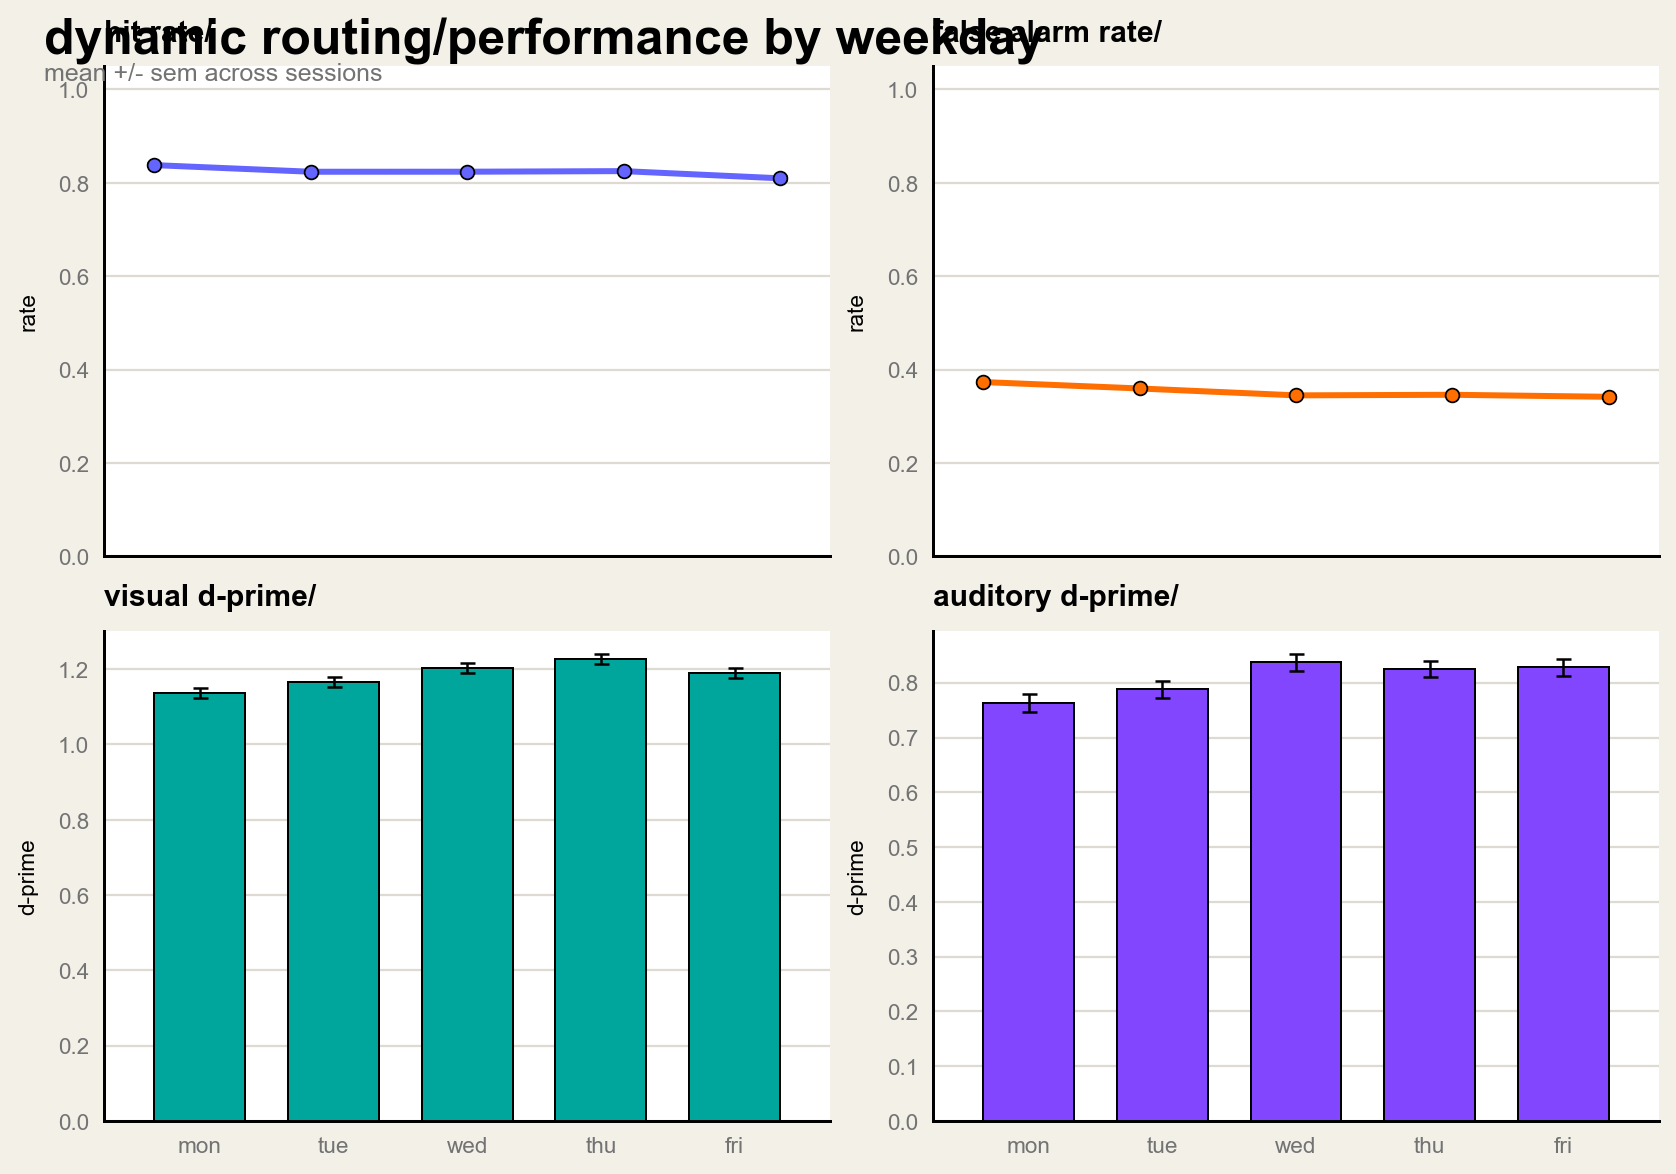
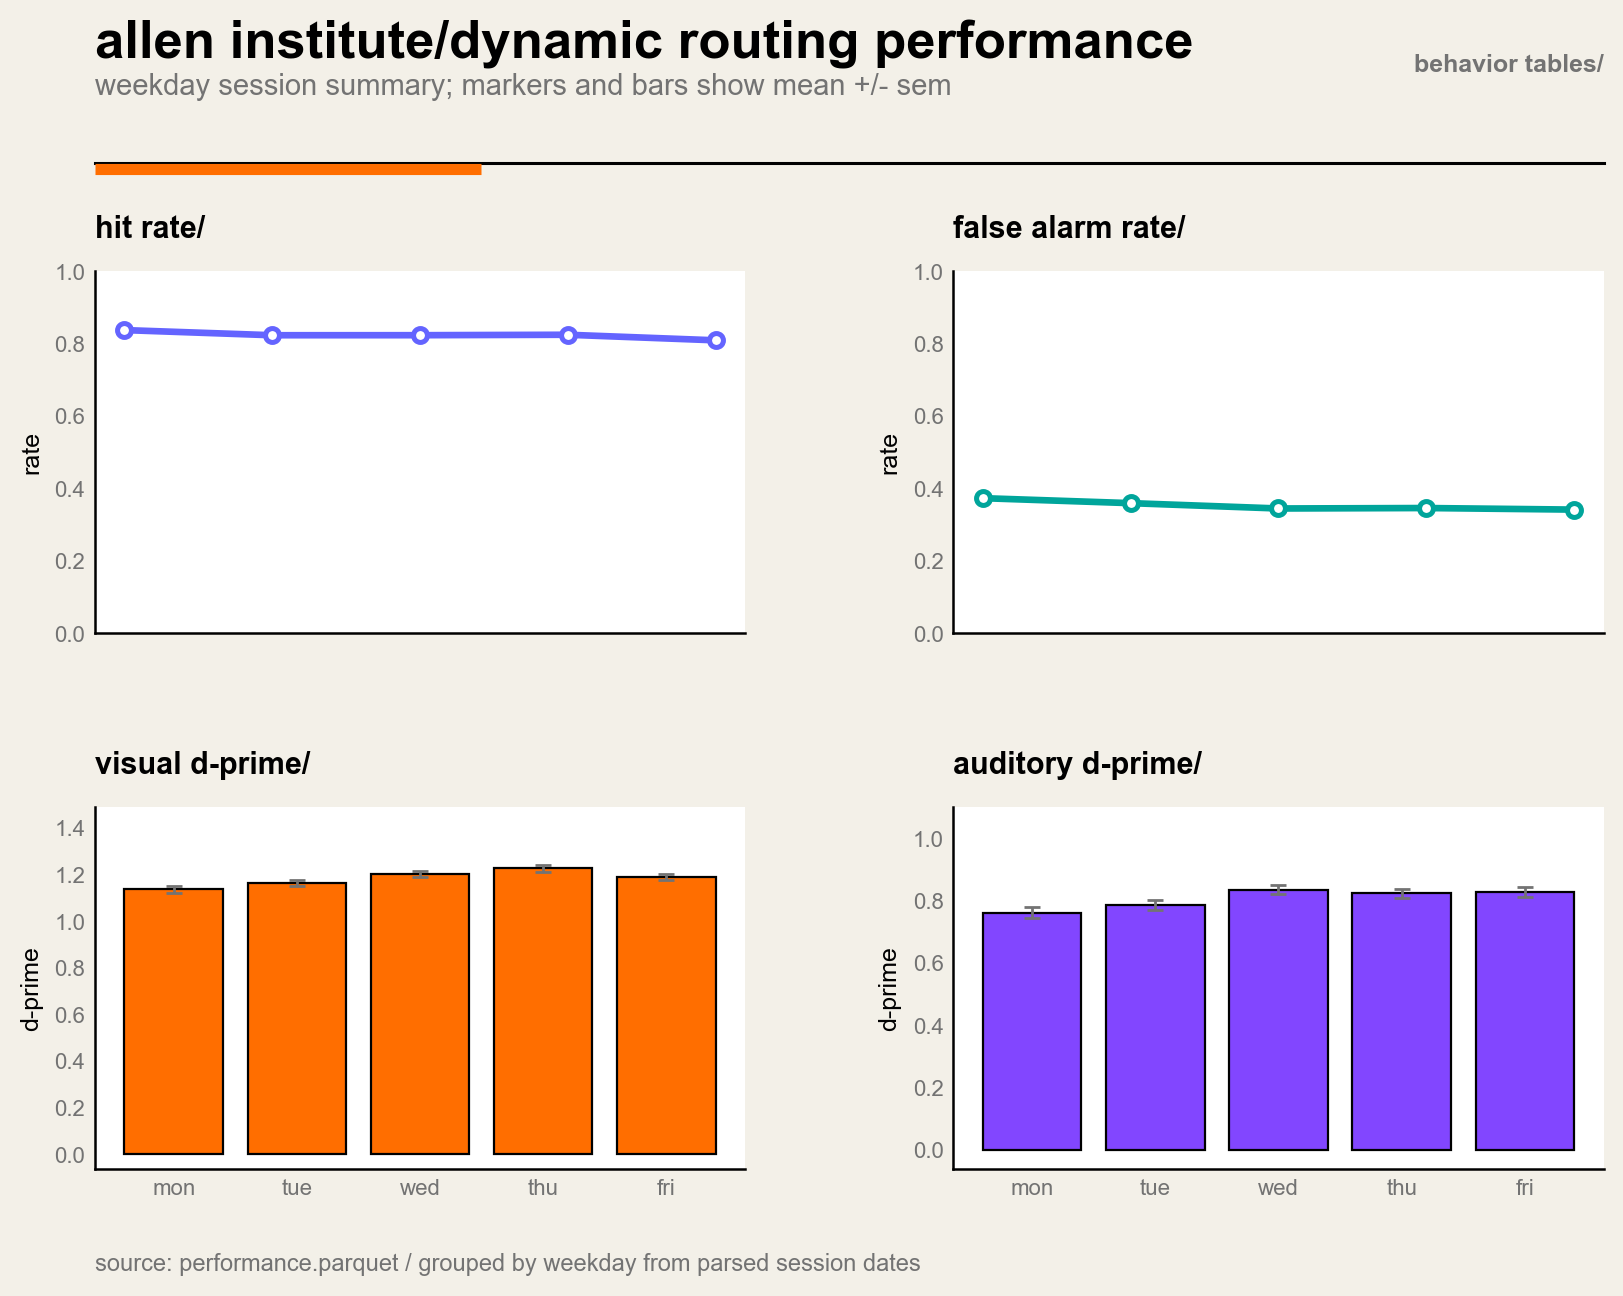
Record Allen brand benchmark improvement

diff --git a/.autoresearch/mod_plot.py b/.autoresearch/mod_plot.py
@@ -9,10 +9,10 @@ from __future__ import annotations
 
 from pathlib import Path
 
+import matplotlib.font_manager as font_manager
 import matplotlib.pyplot as plt
 import polars as pl
 from cycler import cycler
-from matplotlib import font_manager
 
 
 SOURCE = Path(
@@ -20,14 +20,6 @@ SOURCE = Path(
 )
 OUT_DIR = Path(__file__).resolve().parent
 FIGURE_PATH = OUT_DIR / "plot.png"
-
-PLOTS = (
-    ("hit_rate", "line"),
-    ("false_alarm_rate", "line"),
-    ("vis_dprime", "bar"),
-    ("aud_dprime", "bar"),
-)
-METRICS = tuple(metric for metric, _ in PLOTS)
 
 ALLEN = {
     "black": "#000000",
@@ -47,23 +39,28 @@ ALLEN = {
     "yellow": "#FFEB23",
 }
 ALLEN_SERIES = [
-    ALLEN["blue"],
-    ALLEN["orange"],
-    ALLEN["teal"],
-    ALLEN["violet"],
-    ALLEN["green"],
-    ALLEN["rose"],
-    ALLEN["maroon"],
-    ALLEN["ochre"],
-    ALLEN["yellow"],
+    ALLEN[color]
+    for color in (
+        "blue",
+        "orange",
+        "teal",
+        "violet",
+        "green",
+        "rose",
+        "maroon",
+        "ochre",
+        "yellow",
+    )
 ]
-PLOT_COLORS = {
-    "hit_rate": ALLEN["blue"],
-    "false_alarm_rate": ALLEN["orange"],
-    "vis_dprime": ALLEN["teal"],
-    "aud_dprime": ALLEN["violet"],
-}
-PLOT_TITLES = {
+
+PLOTS = (
+    ("hit_rate", "line"),
+    ("false_alarm_rate", "line"),
+    ("vis_dprime", "bar"),
+    ("aud_dprime", "bar"),
+)
+METRICS = tuple(metric for metric, _ in PLOTS)
+PANEL_LABELS = {
     "hit_rate": "hit rate/",
     "false_alarm_rate": "false alarm rate/",
     "vis_dprime": "visual d-prime/",
@@ -75,36 +72,46 @@ Y_LABELS = {
     "vis_dprime": "d-prime",
     "aud_dprime": "d-prime",
 }
-FONT_CANDIDATES = (
-    "Allen Institute Text",
-    "Allen Institute",
-    "Helvetica Neue",
-    "Arial",
-    "DejaVu Sans",
-)
+PLOT_COLORS = {
+    "hit_rate": ALLEN["blue"],
+    "false_alarm_rate": ALLEN["teal"],
+    "vis_dprime": ALLEN["orange"],
+    "aud_dprime": ALLEN["violet"],
+}
 
 
-def resolve_font_family() -> list[str]:
-    available = {font.name for font in font_manager.fontManager.ttflist}
-    for font_name in FONT_CANDIDATES:
-        if font_name in available:
-            return [font_name, "sans-serif"]
-    return ["sans-serif"]
+def preferred_font() -> str:
+    installed = {font.name for font in font_manager.fontManager.ttflist}
+    for family in (
+        "Allen Institute Text",
+        "Allen Institute",
+        "Helvetica Neue",
+        "Arial",
+        "DejaVu Sans",
+    ):
+        if family in installed:
+            return family
+    return "sans-serif"
 
 
 plt.rcParams.update(
     {
         "figure.facecolor": ALLEN["page1"],
+        "savefig.facecolor": ALLEN["page1"],
         "axes.facecolor": ALLEN["white"],
         "axes.edgecolor": ALLEN["black"],
         "axes.labelcolor": ALLEN["black"],
         "axes.prop_cycle": cycler(color=ALLEN_SERIES),
-        "axes.titlecolor": ALLEN["black"],
-        "font.family": resolve_font_family(),
+        "axes.spines.top": False,
+        "axes.spines.right": False,
+        "axes.titleweight": "bold",
+        "axes.grid": True,
         "grid.color": ALLEN["page2"],
-        "text.color": ALLEN["black"],
+        "grid.linewidth": 0.9,
         "xtick.color": ALLEN["gray2"],
         "ytick.color": ALLEN["gray2"],
+        "text.color": ALLEN["black"],
+        "font.family": preferred_font(),
     }
 )
 
@@ -150,9 +157,9 @@ def summarize_by_weekday(sessions: pl.DataFrame) -> pl.DataFrame:
         )
         .with_columns(
             *[
-                (pl.col(f"{metric}_sd") / pl.col(f"{metric}_n").sqrt()).alias(
-                    f"{metric}_sem"
-                )
+                (pl.col(f"{metric}_sd") / pl.col(f"{metric}_n").sqrt())
+                .fill_null(0)
+                .alias(f"{metric}_sem")
                 for metric in METRICS
             ]
         )
@@ -161,93 +168,163 @@ def summarize_by_weekday(sessions: pl.DataFrame) -> pl.DataFrame:
     return summary
 
 
-def format_axis(ax: plt.Axes, metric: str, labels: list[str], show_weekdays: bool) -> None:
-    ax.set_title(PLOT_TITLES[metric], loc="left", fontsize=12, fontweight="bold", pad=10)
-    ax.set_ylabel(Y_LABELS[metric], fontsize=9, labelpad=8)
-    ax.set_xticks(range(len(labels)))
-    ax.set_xticklabels(labels if show_weekdays else [])
-    ax.tick_params(axis="both", length=0, labelsize=9, pad=6)
-    ax.set_axisbelow(True)
-    ax.yaxis.grid(True, linewidth=0.9)
-    ax.xaxis.grid(False)
-    ax.margins(x=0.08)
+def float_values(values: list[float | None], default: float) -> list[float]:
+    return [default if value is None else float(value) for value in values]
 
-    for side in ("top", "right"):
-        ax.spines[side].set_visible(False)
-    for side in ("left", "bottom"):
-        ax.spines[side].set_color(ALLEN["black"])
-        ax.spines[side].set_linewidth(1.2)
+
+def set_y_limits(
+    ax: plt.Axes,
+    metric: str,
+    means: list[float],
+    sems: list[float],
+) -> None:
+    finite_lows = [
+        mean - sem
+        for mean, sem in zip(means, sems, strict=True)
+        if mean == mean and sem == sem
+    ]
+    finite_highs = [
+        mean + sem
+        for mean, sem in zip(means, sems, strict=True)
+        if mean == mean and sem == sem
+    ]
+    if not finite_highs:
+        return
 
     if metric.endswith("_rate"):
-        ax.set_ylim(0, 1.05)
-    else:
-        ax.axhline(0, color=ALLEN["black"], linewidth=1.0)
+        ax.set_ylim(0, min(1.05, max(1.0, max(finite_highs) * 1.08)))
+        return
+
+    low = min(0.0, min(finite_lows))
+    high = max(finite_highs)
+    padding = max((high - low) * 0.16, 0.25)
+    ax.set_ylim(low - padding * 0.25, high + padding)
+
+
+def style_axis(ax: plt.Axes, metric: str, show_x_labels: bool) -> None:
+    ax.set_title(PANEL_LABELS[metric], loc="left", fontsize=11, pad=12)
+    ax.set_ylabel(Y_LABELS[metric], fontsize=9)
+    ax.tick_params(axis="both", labelsize=8, length=0)
+    ax.tick_params(axis="x", labelbottom=show_x_labels)
+    ax.grid(axis="y")
+    ax.grid(axis="x", visible=False)
+    ax.spines["left"].set_color(ALLEN["black"])
+    ax.spines["bottom"].set_color(ALLEN["black"])
+    ax.spines["left"].set_linewidth(0.9)
+    ax.spines["bottom"].set_linewidth(0.9)
 
 
 def make_plot(summary: pl.DataFrame) -> None:
     x = list(range(summary.height))
-    labels = [weekday.lower() for weekday in summary["weekday"].to_list()]
-    fig, axes = plt.subplots(2, 2, figsize=(9.2, 6.4), constrained_layout=True)
-    fig.patch.set_facecolor(ALLEN["page1"])
+    weekdays = [str(day).lower() for day in summary["weekday"].to_list()]
+    fig, axes = plt.subplots(2, 2, figsize=(9.2, 6.8), constrained_layout=False)
+    fig.subplots_adjust(
+        left=0.09,
+        right=0.91,
+        bottom=0.12,
+        top=0.78,
+        hspace=0.48,
+        wspace=0.32,
+    )
 
     fig.suptitle(
-        "dynamic routing/performance by weekday",
-        x=0.02,
-        y=0.995,
+        "allen institute/dynamic routing performance",
+        x=0.09,
+        y=0.965,
         ha="left",
-        fontsize=20,
+        fontsize=19,
         fontweight="bold",
     )
     fig.text(
-        0.02,
-        0.94,
-        "mean +/- sem across sessions",
-        color=ALLEN["gray2"],
-        fontsize=10,
+        0.09,
+        0.91,
+        "weekday session summary; markers and bars show mean +/- sem",
         ha="left",
+        fontsize=10.5,
+        color=ALLEN["gray2"],
+    )
+    fig.text(
+        0.91,
+        0.94,
+        "behavior tables/",
+        ha="right",
+        va="top",
+        fontsize=9,
+        color=ALLEN["gray2"],
+        fontweight="bold",
+    )
+    fig.add_artist(
+        plt.Line2D(
+            [0.09, 0.91],
+            [0.86, 0.86],
+            transform=fig.transFigure,
+            color=ALLEN["black"],
+            linewidth=1.1,
+        )
+    )
+    fig.add_artist(
+        plt.Line2D(
+            [0.09, 0.30],
+            [0.855, 0.855],
+            transform=fig.transFigure,
+            color=ALLEN["orange"],
+            linewidth=4.0,
+            solid_capstyle="butt",
+        )
     )
 
     for index, (ax, (metric, plot_type)) in enumerate(
         zip(axes.flat, PLOTS, strict=True)
     ):
-        values = summary[f"{metric}_mean"].to_list()
-        errors = summary[f"{metric}_sem"].fill_null(0).to_list()
+        means = float_values(summary[f"{metric}_mean"].to_list(), float("nan"))
+        sems = float_values(summary[f"{metric}_sem"].to_list(), 0.0)
         color = PLOT_COLORS[metric]
 
         if plot_type == "line":
             ax.errorbar(
                 x,
-                values,
-                yerr=errors,
+                means,
+                yerr=sems,
                 color=color,
                 ecolor=ALLEN["gray2"],
-                elinewidth=1.0,
-                linewidth=2.4,
-                marker="o",
-                markeredgecolor=ALLEN["black"],
-                markeredgewidth=0.7,
-                markersize=5.5,
+                elinewidth=1,
                 capsize=3,
+                fmt="-o",
+                linewidth=2.4,
+                markersize=5,
+                markerfacecolor=ALLEN["white"],
+                markeredgecolor=color,
+                markeredgewidth=1.8,
             )
         else:
             ax.bar(
                 x,
-                values,
-                yerr=errors,
+                means,
+                yerr=sems,
                 color=color,
                 edgecolor=ALLEN["black"],
-                error_kw={
-                    "ecolor": ALLEN["black"],
-                    "elinewidth": 1.0,
-                    "capsize": 3,
-                },
                 linewidth=0.8,
-                width=0.68,
+                error_kw={
+                    "ecolor": ALLEN["gray2"],
+                    "elinewidth": 1,
+                    "capsize": 3,
+                    "capthick": 1,
+                },
             )
 
-        format_axis(ax, metric, labels, show_weekdays=index >= 2)
+        ax.set_xticks(x, weekdays)
+        style_axis(ax, metric, show_x_labels=index >= 2)
+        set_y_limits(ax, metric, means, sems)
 
-    fig.savefig(FIGURE_PATH, dpi=180, bbox_inches="tight", facecolor=fig.get_facecolor())
+    fig.text(
+        0.09,
+        0.045,
+        "source: performance.parquet / grouped by weekday from parsed session dates",
+        ha="left",
+        fontsize=8.5,
+        color=ALLEN["gray2"],
+    )
+    fig.savefig(FIGURE_PATH, dpi=200, bbox_inches="tight")
     plt.close(fig)
 
 
